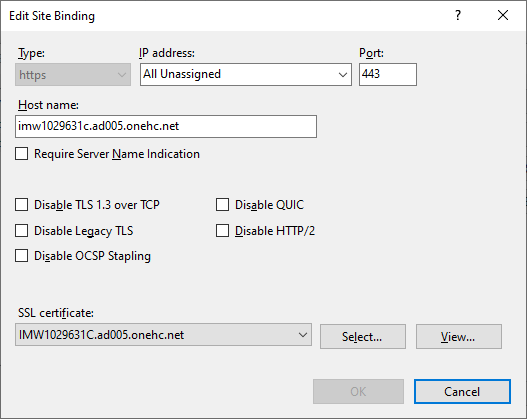
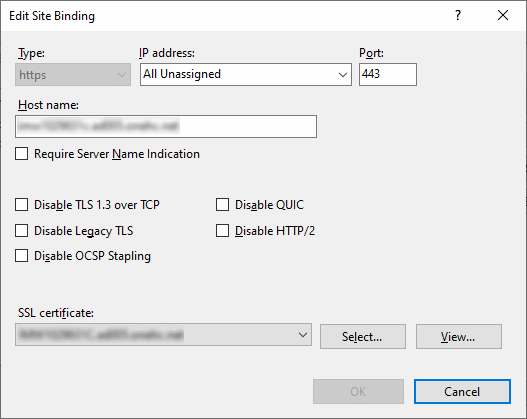
secure host access how to (#286)

Changed region(s): [[0.0304, 0.7757, 0.3643, 0.8377], [0.0304, 0.2792, 0.3643, 0.3413]]

diff --git a/doc/operatormanual/SecureHostAccess.md b/doc/operatormanual/SecureHostAccess.md
@@ -1,0 +1,174 @@
+# Secure Host Access
+
+K2s provides three addons which can be used to expose the functionality implemented inside the kubernetes cluster outside of it: `ingress-nginx`,
+`traefik` and `gateway-nginx`.
+
+However, because the whole K2s solution relies on a private network, the exposed endpoints are only available inside this private network, running behind the Windows host - regardless which [hosting variant](../../README.md#hosting-variants) is used.
+
+In this document, we will assume you have enabled the K2s addon `dashboard`, so it is usable on your local host at `http://k2s-dashboard.local`, and we further more assume you have an own product configured in one of the K2s ingress, reachable locally under `http://my-product.local`
+
+If we want to expose the ingress / gateway endpoints outside of the windows host in a secure manner, we need to configure a reverse proxy on the windows host. The following picture shows this schematically for one of the variants:
+
+![reverse-proxy](./images/reverse-proxy.drawio.png)
+
+We describe here two ways to do that: using the addon `exthttpaccess` and using IIS.
+
+## 1. Using the addon `exthttpaccess`
+
+This K2s addon installs nginx as a windows service on the host, and configures it as a reverse proxy to the installed ingress addon. Products shall adjust the configuration.
+
+See [NGINX Reverse Proxy](https://docs.nginx.com/nginx/admin-guide/web-server/reverse-proxy/).
+
+The example shows how to make the K2s dashboard available outside your host under an  **https** endpoint:
+
+* `https://my-host.my-domain.com` -> `http://k2s-dashboard.local`
+
+For this you need a server certificate issued by a trusted authority for the fqdn of your host, in this example `my-host.my-domain.com`
+
+1. enable the K2s addon `exthttpaccess`
+
+2. Update the configuration file `<k2s-install-dir>\bin\nginx\nginx.conf`
+
+   ```conf
+   ...
+   http {
+     server {
+       listen 443          ssl;
+       server_name         my-host.my-domain.com;
+       ssl_certificate     my-host.my-domain.com.crt;
+       ssl_certificate_key my-host.my-domain.com.key;
+        location / {
+         proxy_pass http://k2s-dashboard.local;
+       }
+     }
+   }
+   ```
+
+3. Restart nginx-ext using `nssm` after changing the configuration file:
+
+   ```cmd
+   nssm restart nginx-ext
+   ```
+
+Open Points:
+
+* How can NGINX authenticate users against NTLM? The feature seems to be available, but only for NGINX Plus.
+
+* How can NGINX be configured so that the inbound relative path of applications is different from the relative path in K2s ingress, i.e.
+
+  * `https://my-host.my-domain.com/dashboard` -> `http://k2s-dashboard.local`
+  * `https://my-host.my-domain.com/my-product` -> `http://my-product.local`
+
+  See [BASE HREF](#base-href) below.
+
+## 2. Using IIS
+
+Another way to expose the functionality outside of the windows host is to use the [Application Request Routing module for IIS](https://learn.microsoft.com/en-us/iis/extensions/planning-for-arr/using-the-application-request-routing-module) and the [URL Rewrite IIS Module](https://www.iis.net/downloads/microsoft/url-rewrite) to configure a reverse proxy to the services exposed by the K2s ingress or gateway addon.
+
+Using the IIS will ease up integration in the site network environment regarding secure communication and user management, as the IIS can be configured for SSL using the existing host certificate and the NTLM authentication can be configured in IIS.
+
+The example below assumes you have two web applications functioning on the two local ingress endpoints `http://k2s-dashboard.local` and `http://my-product.local`.
+
+It shows how to make these two applications available outside your host over **https** and only after the **user is authenticated** against the local host (i.e. he would also eb allowed to log in on your local host) under these endpoints:
+
+* `https://my-host.my-domain.com/dashboard` -> `http://k2s-dashboard.local`
+* `https://my-host.my-domain.com/my-product` -> `http://my-product.local`
+
+Follow these steps:
+
+1. Install the IIS Module  [Url Rewrite](https://www.iis.net/downloads/microsoft/url-rewrite)
+2. Install the IIS Module [Application Request Routing](https://www.iis.net/downloads/microsoft/application-request-routing)
+3. In IIS Manager, navigate to your default Site and select `bindings` in the `Actions pane` on the right.
+
+   Activate SSL binding for your default site in IIS. You need a server certificate to do that.
+
+   ![iis-site-bindings](images/iis-site-bindings.png)
+
+4. In IIS Manager, navigate to your default site and select `Authentication` in the `IIS` section of the `Features View`.
+
+   Enable `Windows Authentication`:
+
+   ![iis-windows-auth](images/iis-windows-auth.png)
+
+5. In IIS Manager, select your computer (root node) and then select `Application Request Routing Cache` in the `IIS` section of the `Features View`. Then select `Server Proxy Settings...` in the `Actions pane`, and enable the proxy:
+
+   ![iis-proxy-settings](images/iis-proxy-settings.png)
+
+   Also activate the `Reverse rewrite host in response headers`.
+
+6. Finally, in IIS Manager, navigate to your default site again, select `URL Rewrite`, and create your inbound and outbound rules.
+
+The example below shows how to forward requests to two different ingress endpoints, one of them being the K2s dashboard also used in the previous section.
+
+```xml
+<?xml version="1.0" encoding="UTF-8"?>
+<configuration>
+  <system.webServer>
+    <rewrite>
+      <rules>
+        <rule name="k2s-dashboard" stopProcessing="true">
+          <match url="^dashboard/?(.*)" />
+          <serverVariables>
+            <set name="HTTP_ACCEPT_ENCODING" value="" />
+          </serverVariables>
+          <action type="Rewrite" url="http://k2s-dashboard.local/{R:1}" logRewrittenUrl="true" />
+        </rule>
+        <rule name="my-product" stopProcessing="true">
+          <match url="^my-product/?(.*)" />
+          <action type="Rewrite" url="http://my-product.local/{R:1}" logRewrittenUrl="true" />
+        </rule>
+      </rules>
+      <outboundRules>
+        <rule name="my-product-out" preCondition="isHTML" stopProcessing="true">
+          <match filterByTags="Base" pattern="^/?(.*)$" negate="false" />
+          <action type="Rewrite" value="/my-product/{R:1}" />
+          <conditions>
+            <add input="{URL}" pattern="/my-product.*" />
+          </conditions>
+        </rule>
+        <preConditions>
+          <remove name="isHTTP" />
+          <preCondition name="isHTML">
+            <add input="{RESPONSE_CONTENT_TYPE}" pattern="^text/html" />
+          </preCondition>
+        </preConditions>
+      </outboundRules>
+    </rewrite>
+    <security>
+      <authentication>
+        <windowsAuthentication enabled="true" />
+      </authentication>
+    </security>
+  </system.webServer>
+</configuration>
+```
+
+This file is found in `C:\inetpub\wwwroot\web.config`.
+
+Open Points:
+
+* The dashboard web application makes calls to APIs, and in many of them the namespace is used a REST API resource ID, e.g. all PODs of namespace `kubernetes-dashboard` are retrieved with this API call:
+
+  `http://k2s-dashboard.local/api/v1/pod/kubernetes-dashboard`
+
+  Unfortunately, when the user selects `All Namespaces` in the User Interface, the same URL is invoked with a space character (`%20`) as the name of the resource - it seems as this is the convention the developers of the Dashboard made:
+
+  `http://k2s-dashboard.local/api/v1/pod/%20`
+
+  The http specs forbid to have a space at the end on an URL, but it works for some reasons. However, when the rewrite rules kick in, it seems they drop the space and the Application is not working with All namespaces selected.
+
+## Base HREF
+
+When configuring forward proxies, special attention and test effort must be spent to ensure that URLs are properly handled, in case they are pointing to the services being re-directed to.
+
+In our example above, the my-product app is making several calls to APIs using relative URLs.
+The app is designed to work `my-product.local`, and encodes the `<base href="/">`.
+But when the application is accessed through the secure url, the base url must be rewritten to `<base href="/my-product/">`.
+
+This is solved for my-product by the outbound rule. For the other rule, the relative URLs are not changed because we redirect a root to another root.
+
+However, in the real world, some applications will encode the BASE URL in their HTML page, and in this case, they need to be adapted before the response is sent back to the clients. In these case, **outbound rewrite rules** are needed to adjust those links in the responses.
+
+See the following stack overflow for a pertinent discussion on how the handling of the BASE for Relative URLs shall be done:
+
+<https://stackoverflow.com/questions/2157983/is-there-an-http-header-to-say-what-base-url-to-use-for-relative-links>